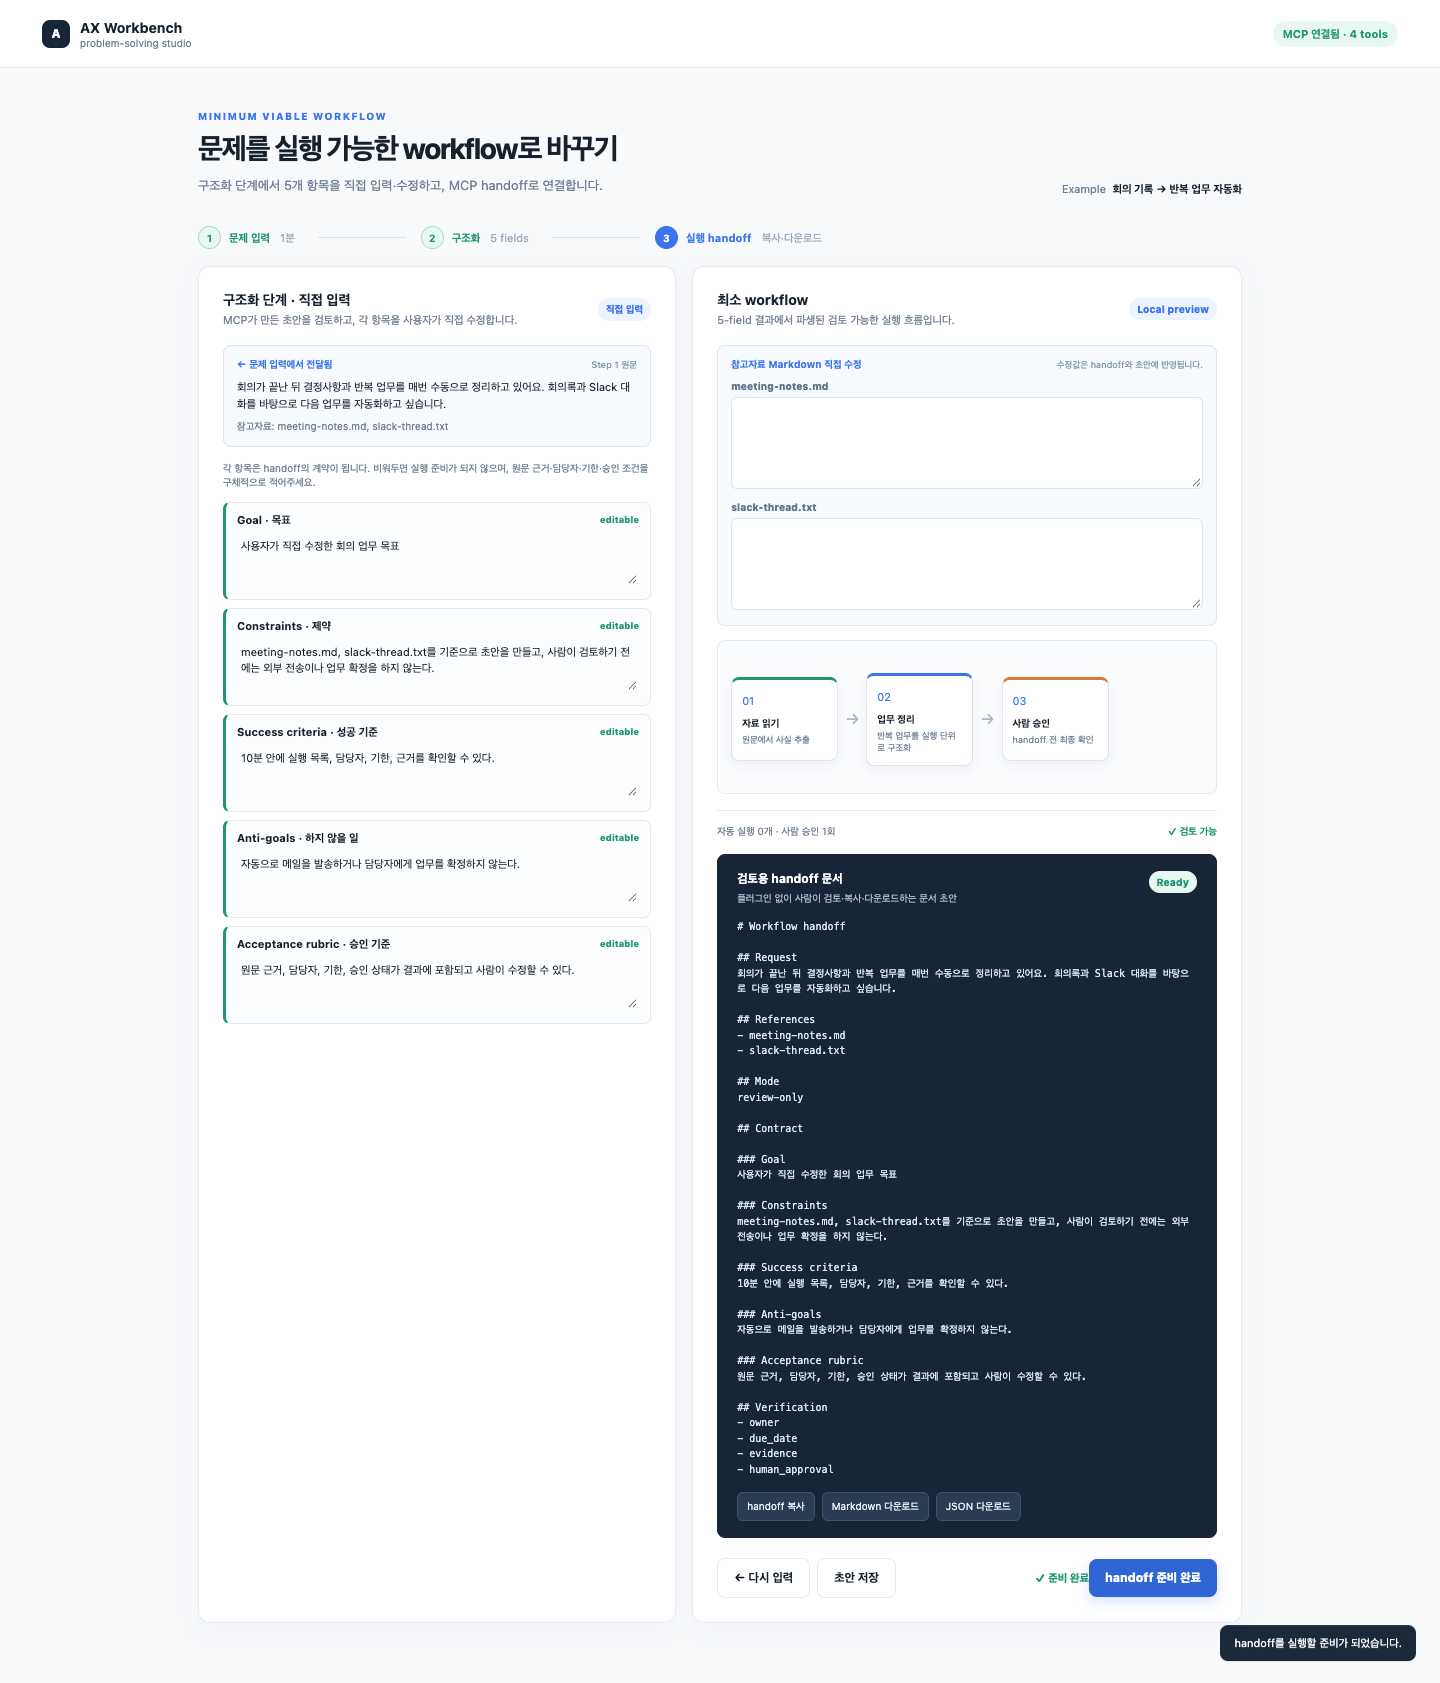
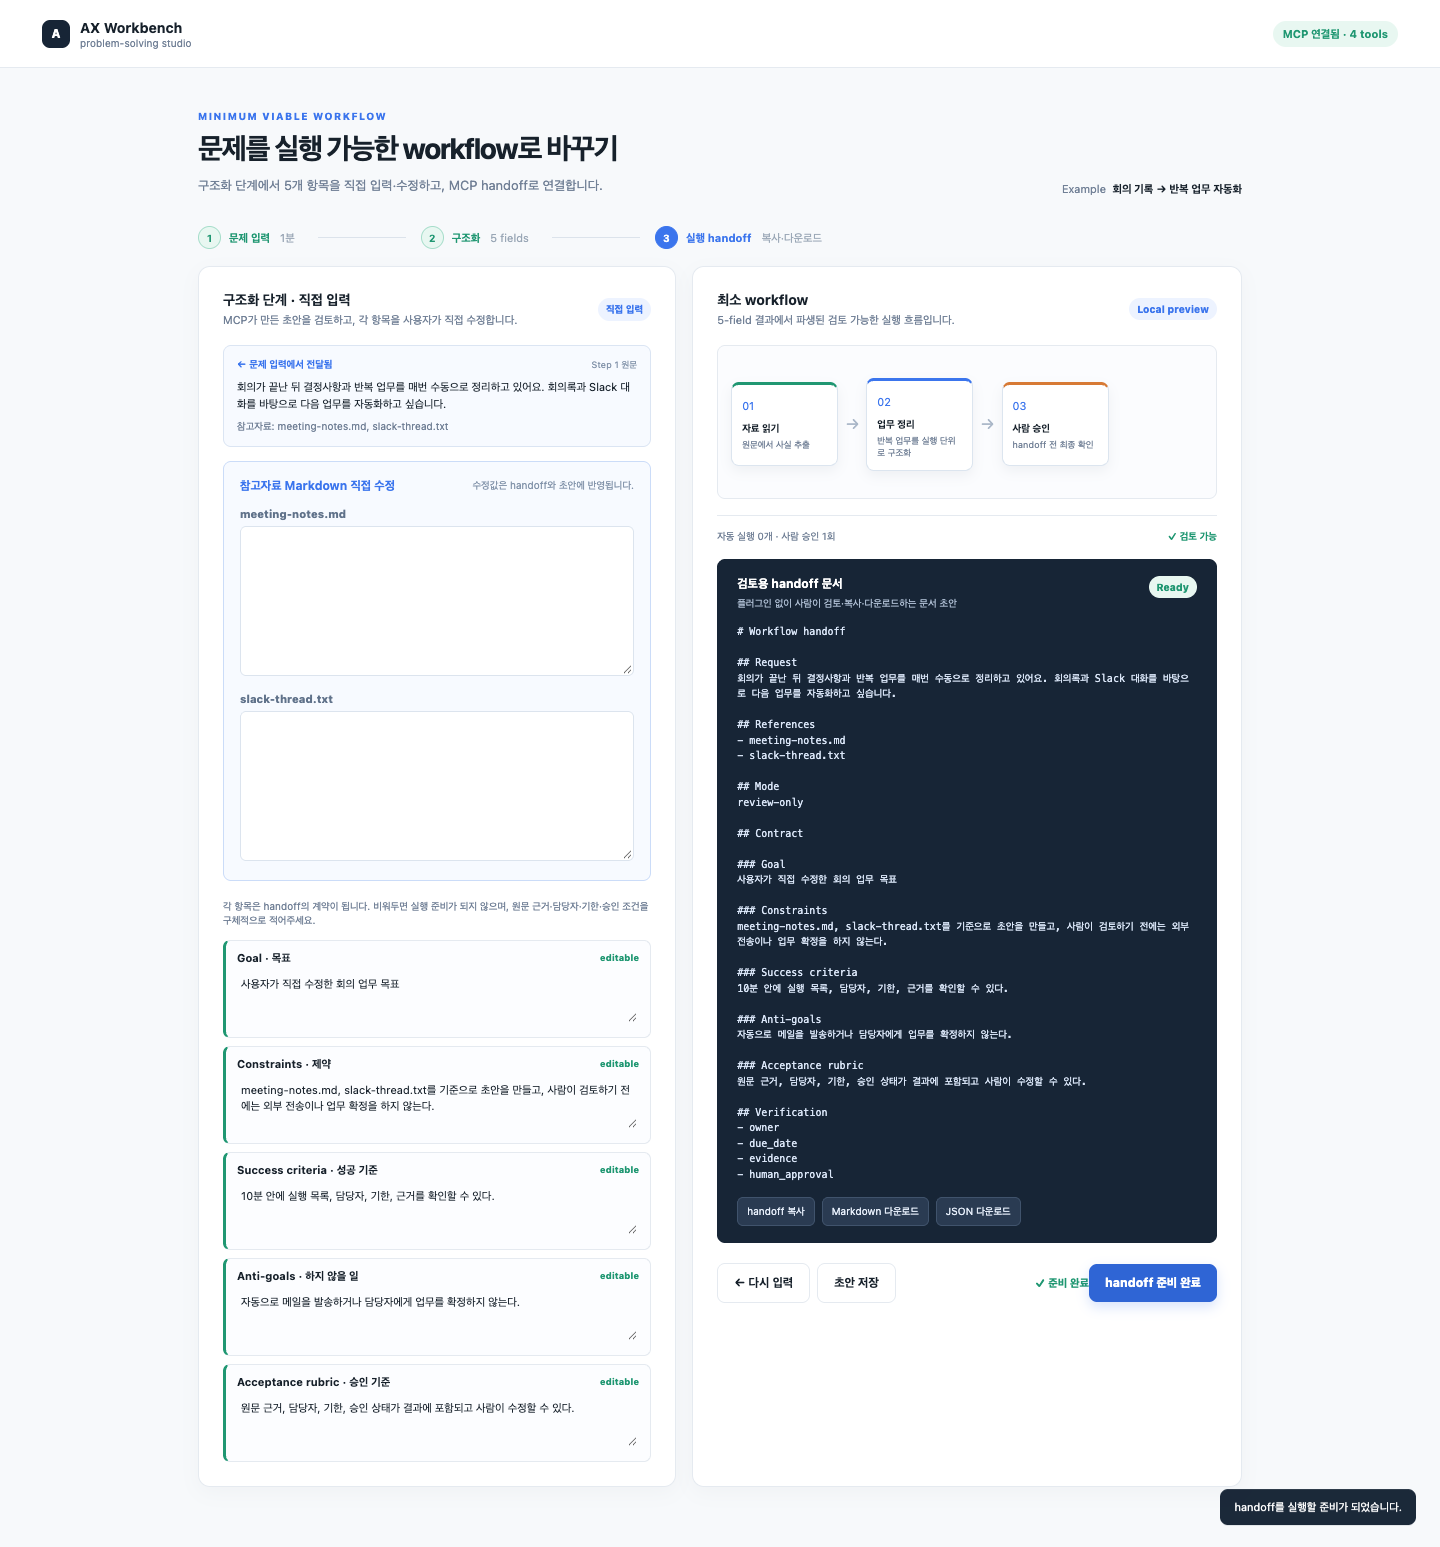
ui: move reference editor to structure panel

diff --git a/apps/workbench/demo/mvp.html b/apps/workbench/demo/mvp.html
@@ -87,14 +87,14 @@
     .source-context-head span { color: #8293aa; font-size: 9px; }
     .source-request { color: var(--ink); font-size: 11px; line-height: 1.5; margin: 0; }
     .source-refs { color: var(--muted); font-size: 10px; line-height: 1.45; margin: 7px 0 0; }
-    .reference-editor { border: 1px solid #dbe5f3; background: #f7faff; border-radius: 8px; padding: 12px 13px; margin-bottom: 14px; }
-    .reference-editor-head { display: flex; justify-content: space-between; align-items: center; gap: 10px; margin-bottom: 8px; }
-    .reference-editor-head strong { font-size: 10px; color: var(--blue); }
-    .reference-editor-head span { color: #8293aa; font-size: 9px; }
-    .reference-edit { margin-top: 9px; }
+    .reference-editor { border: 1px solid #cbdcf8; background: #f7faff; border-radius: 8px; padding: 16px; margin-bottom: 18px; }
+    .reference-editor-head { display: flex; justify-content: space-between; align-items: center; gap: 10px; margin-bottom: 11px; }
+    .reference-editor-head strong { font-size: 12px; color: var(--blue); }
+    .reference-editor-head span { color: #8293aa; font-size: 10px; }
+    .reference-edit { margin-top: 13px; }
     .reference-edit:first-of-type { margin-top: 0; }
-    .reference-edit label { display: block; color: #60728a; font-size: 10px; font-weight: 800; margin-bottom: 5px; }
-    .reference-edit textarea { width: 100%; min-height: 92px; resize: vertical; border: 1px solid #dce4ee; border-radius: 6px; background: #fff; color: var(--ink); padding: 9px 10px; font: 11px/1.5 ui-monospace, SFMono-Regular, Menlo, monospace; outline: 0; }
+    .reference-edit label { display: block; color: #60728a; font-size: 11px; font-weight: 800; margin-bottom: 6px; }
+    .reference-edit textarea { width: 100%; min-height: 150px; resize: vertical; border: 1px solid #dce4ee; border-radius: 6px; background: #fff; color: var(--ink); padding: 11px 12px; font: 12px/1.55 ui-monospace, SFMono-Regular, Menlo, monospace; outline: 0; }
     .reference-edit textarea:focus { border-color: var(--blue); box-shadow: 0 0 0 3px rgba(59, 117, 237, .1); }
     .flow { border: 1px solid var(--line); background: #fbfcfe; border-radius: 8px; padding: 17px 13px 13px; display: flex; align-items: center; gap: 7px; min-height: 154px; }
     .flow-node { width: 107px; min-height: 84px; background: #fff; border: 1px solid #dce5ef; border-top: 3px solid var(--green); border-radius: 8px; padding: 10px; box-shadow: 0 5px 12px rgba(30, 50, 75, .06); }
@@ -168,6 +168,7 @@
             <p class="source-request" id="requestPreview"></p>
             <p class="source-refs" id="referencePreview"></p>
           </div>
+          <div class="reference-editor" id="referenceEditor"><div class="reference-editor-head"><strong>참고자료 Markdown 직접 수정</strong><span>수정값은 handoff와 초안에 반영됩니다.</span></div></div>
           <p class="field-guide">각 항목은 handoff의 계약이 됩니다. 비워두면 실행 준비가 되지 않으며, 원문 근거·담당자·기한·승인 조건을 구체적으로 적어주세요.</p>
           <div class="field" data-field="goal"><div class="field-top"><strong>Goal · 목표</strong><small></small></div><textarea aria-label="Goal" placeholder="무엇을 해결하거나 자동화할지 입력하세요."></textarea></div>
           <div class="field" data-field="constraints"><div class="field-top"><strong>Constraints · 제약</strong><small></small></div><textarea aria-label="Constraints" placeholder="유지해야 할 형식, 보안, 데이터 경계를 입력하세요."></textarea></div>
@@ -178,7 +179,6 @@
 
         <article class="card workflow">
           <div class="card-title"><div><h2>최소 workflow</h2><p class="sub">5-field 결과에서 파생된 검토 가능한 실행 흐름입니다.</p></div><span class="badge blue">Local preview</span></div>
-          <div class="reference-editor" id="referenceEditor"><div class="reference-editor-head"><strong>참고자료 Markdown 직접 수정</strong><span>수정값은 handoff와 초안에 반영됩니다.</span></div></div>
           <div class="flow"><div class="flow-node"><i>01</i><b>자료 읽기</b><span>원문에서 사실 추출</span></div><span class="arrow">→</span><div class="flow-node current"><i>02</i><b>업무 정리</b><span id="workflowMiddle">결정·담당·기한 구조화</span></div><span class="arrow">→</span><div class="flow-node next"><i>03</i><b>사람 승인</b><span>handoff 전 최종 확인</span></div></div>
           <div class="workflow-foot"><span>자동 실행 0개 · 사람 승인 1회</span><b id="workflowStatus">✓ safe to review</b></div>
           <div class="output"><div class="output-head"><div><h3>검토용 handoff 문서</h3><p>플러그인 없이 사람이 검토·복사·다운로드하는 문서 초안</p></div><span class="badge green" id="handoffBadge">Draft</span></div><div class="code" id="handoffText"></div><div class="download-row"><button type="button" id="copy">handoff 복사</button><button type="button" id="downloadMd">Markdown 다운로드</button><button type="button" id="downloadJson">JSON 다운로드</button></div></div>
